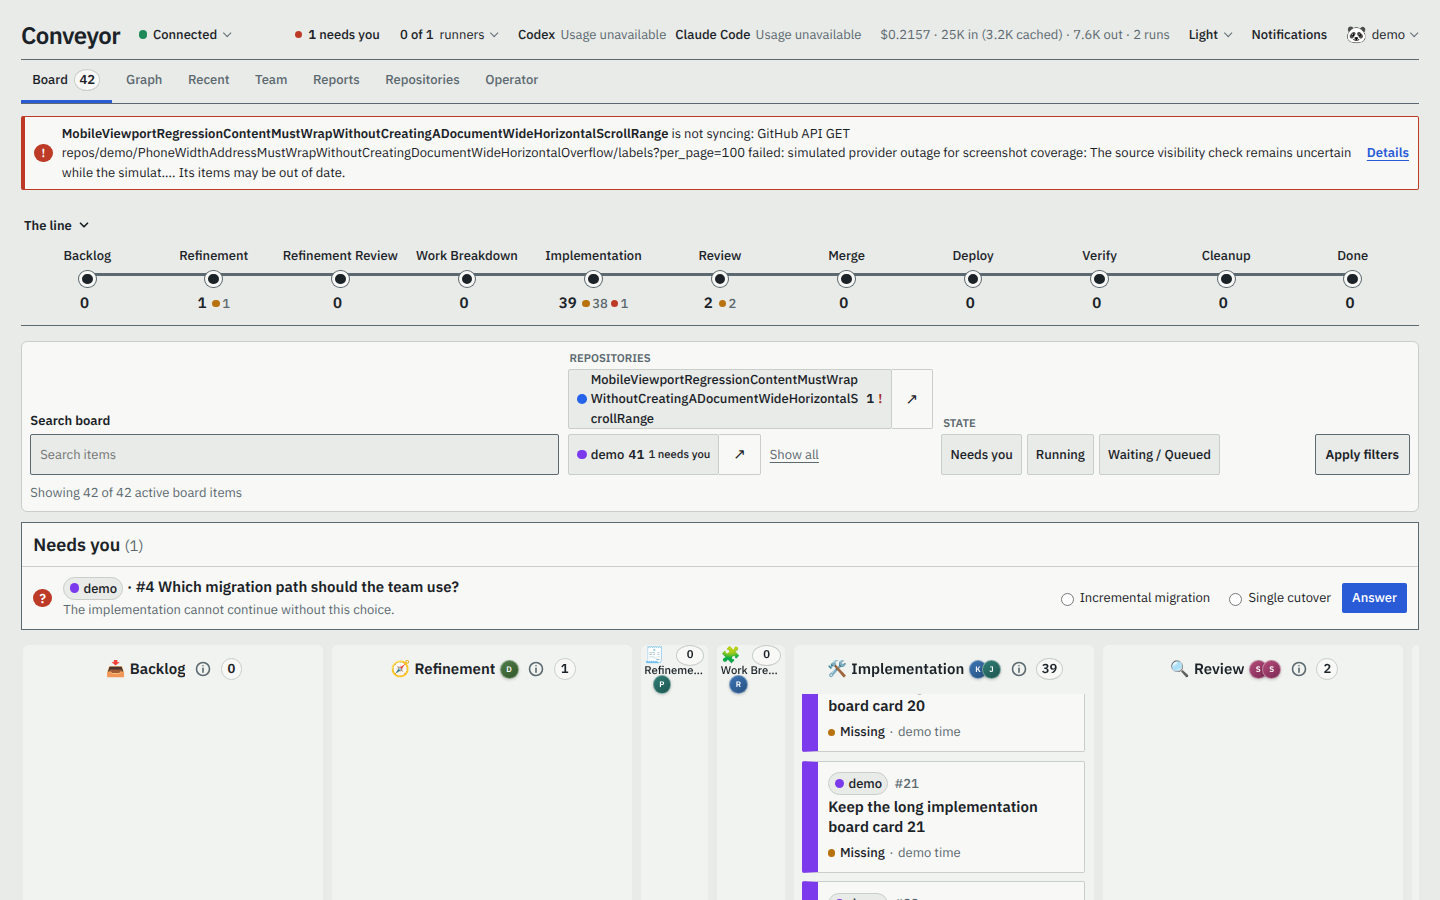
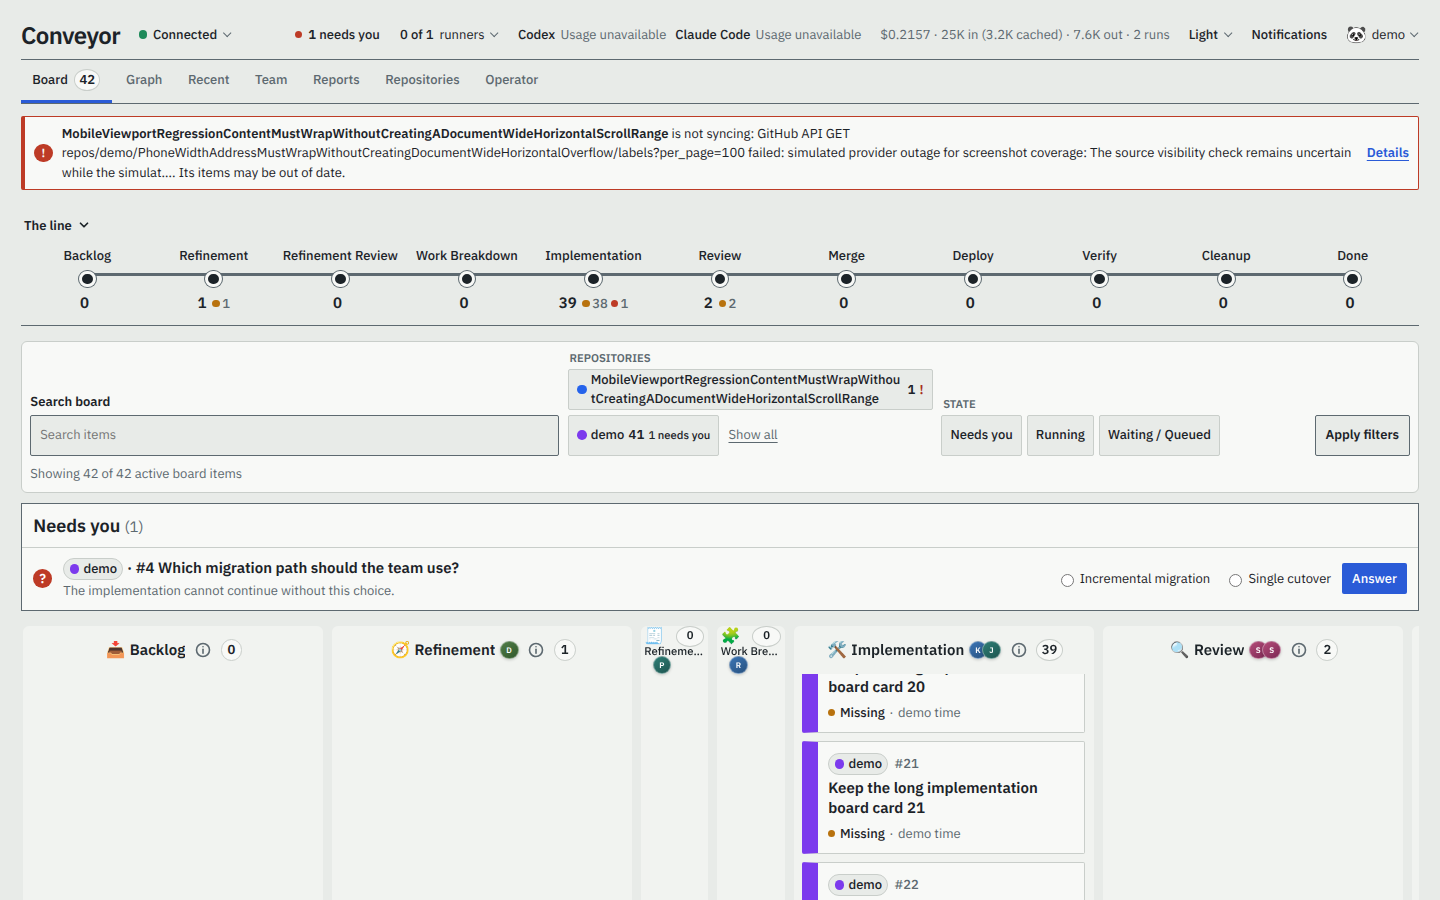
fix: remove repository links from board filters (#341)

diff --git a/src/web/styles.ts b/src/web/styles.ts
@@ -71,10 +71,10 @@ html{scrollbar-color:var(--steel) var(--concrete)}::selection{background:var(--s
 @keyframes popover-in{from{opacity:0;translate:0 -.3rem}}
 @media(prefers-reduced-motion:no-preference){a,button,summary,.issue,.team-card,.repository-card,.report-chip,.tab{transition:background-color .14s ease-out,border-color .14s ease-out,color .14s ease-out}.dashboard-header summary::after{transition:transform .2s cubic-bezier(.16,1,.3,1),margin .2s cubic-bezier(.16,1,.3,1)}.dashboard-header details[open]>.header-popover{animation:popover-in .18s cubic-bezier(.16,1,.3,1)}.issue-details.issue-inspector,.agent-dialog{transition:translate .3s cubic-bezier(.16,1,.3,1),opacity .2s ease-out,overlay .3s allow-discrete,display .3s allow-discrete}.issue-inspector::backdrop,.agent-dialog::backdrop{transition:opacity .3s ease-out,overlay .3s allow-discrete,display .3s allow-discrete}.issue-details.issue-inspector:not([open]){translate:3rem 0;opacity:0}.agent-dialog:not([open]){translate:0 .75rem;opacity:0}.issue-inspector:not([open])::backdrop,.agent-dialog:not([open])::backdrop{opacity:0}@starting-style{.issue-details.issue-inspector[open]{translate:3rem 0;opacity:0}.agent-dialog[open]{translate:0 .75rem;opacity:0}.issue-inspector[open]::backdrop,.agent-dialog[open]::backdrop{opacity:0}}}
 .account-actions{display:grid;gap:.45rem;min-width:20rem}.account-action-form{display:flex;align-items:center;gap:.4rem;flex-wrap:wrap}.account-action-form input{min-width:0;flex:1 1 10rem;border:1px solid var(--steel);padding:.35rem}.account-action-form button,.account-delete summary{border:1px solid var(--steel);border-radius:2px;background:var(--panel);padding:.35rem .55rem;color:var(--ink);font-size:var(--text-sm);font-weight:500}.account-delete{display:grid;gap:.45rem}.account-delete[open]{padding:.45rem;border:1px solid var(--line);background:var(--concrete)}.account-delete label{flex:1 0 100%;font-size:var(--text-sm)}.account-action-buttons{display:flex;gap:.4rem}.account-action-buttons button:first-child{border-color:var(--stop);color:var(--stop-text)}.account-action-form [role=status]{flex:1 0 100%;color:var(--steel);font-size:var(--text-sm)}.account-action-form [role=status][data-error=true]{color:var(--stop-text)}@media(max-width:760px){.account-actions{min-width:15rem}.account-action-form{align-items:stretch}.account-action-form input{flex-basis:100%}}
- .board-filters{margin:.65rem 0;border:1px solid var(--line);border-radius:6px;background:var(--panel)}.board-filters form{display:flex;flex-wrap:wrap;align-items:end;gap:.55rem;padding:.55rem}.board-filter-search{display:grid;flex:1 1 16rem;gap:.2rem;font-size:var(--text-sm);font-weight:600}.board-filter-search input{min-width:0;min-height:2.75rem;box-sizing:border-box;border:1px solid var(--steel);border-radius:2px;background:var(--concrete);color:var(--ink);padding:.45rem .6rem;font:inherit;font-weight:400}.board-filter-choices{display:flex;flex:1 1 30rem;align-items:end;gap:.55rem;min-width:0}.board-filter-choices fieldset{display:flex;flex:1 1 12rem;flex-wrap:wrap;align-items:center;gap:.3rem;margin:0;padding:0;border:0}.board-filter-choices legend{width:100%;margin-bottom:.1rem;color:var(--steel);font-size:.75rem;font-weight:600;text-transform:uppercase}.repository-filter{display:inline-flex;min-width:0;align-items:stretch}.repository-filter label,.board-filter-choices [data-filter-state]{display:inline-flex;min-height:2.75rem;box-sizing:border-box;align-items:center;gap:.28rem;border:1px solid var(--line);border-radius:2px;background:var(--concrete);padding:0 .55rem;color:var(--ink);font-size:var(--text-sm);font-weight:500;cursor:pointer}.repository-filter label:has(input:checked),.board-filter-choices [data-filter-state]:has(input:checked){border-color:var(--signal);background:color-mix(in srgb,var(--signal) 12%,var(--concrete));color:var(--signal)}.repository-filter input,.board-filter-choices [data-filter-state] input{position:absolute;width:1px;height:1px;overflow:hidden;clip-path:inset(50%)}.repository-filter label:focus-within,.board-filter-choices [data-filter-state]:focus-within,.repository-filter-open:focus-visible{outline:3px solid var(--signal);outline-offset:2px}.repository-dot{width:.65rem;height:.65rem;border-radius:50%;background:var(--repo-color,var(--steel))}.repository-filter b{font-variant-numeric:tabular-nums}.repository-filter em{font-style:normal;font-size:.75rem}.repository-filter strong{color:var(--stop-text)}.repository-filter-open{display:inline-flex;min-width:2.75rem;min-height:2.75rem;align-items:center;justify-content:center;border:1px solid var(--line);border-left:0;border-radius:0 2px 2px 0;color:var(--ink);text-decoration:none}.repository-filter-open:hover,.repository-filter-all:hover{color:var(--signal)}.repository-filter-all{display:inline-flex;min-height:2.75rem;align-items:center;padding:0 .3rem;color:var(--steel);font-size:var(--text-sm)}.board-filter-submit,.board-filter-clear,.board-filter-more{min-height:2.75rem;border:1px solid var(--steel);border-radius:2px;background:var(--concrete);color:var(--ink);padding:0 .65rem;font:inherit;font-size:var(--text-sm);font-weight:600;cursor:pointer}.board-filter-clear{margin-left:auto;color:var(--signal)}.board-filter-summary{width:100%;margin:0;color:var(--steel);font-size:var(--text-sm)}.board-filter-more{display:none}.board-filters [hidden]{display:none}
+.board-filters{margin:.65rem 0;border:1px solid var(--line);border-radius:6px;background:var(--panel)}.board-filters form{display:flex;flex-wrap:wrap;align-items:end;gap:.55rem;padding:.55rem}.board-filter-search{display:grid;flex:1 1 16rem;gap:.2rem;font-size:var(--text-sm);font-weight:600}.board-filter-search input{min-width:0;min-height:2.75rem;box-sizing:border-box;border:1px solid var(--steel);border-radius:2px;background:var(--concrete);color:var(--ink);padding:.45rem .6rem;font:inherit;font-weight:400}.board-filter-choices{display:flex;flex:1 1 30rem;align-items:end;gap:.55rem;min-width:0}.board-filter-choices fieldset{display:flex;flex:1 1 12rem;flex-wrap:wrap;align-items:center;gap:.3rem;margin:0;padding:0;border:0}.board-filter-choices legend{width:100%;margin-bottom:.1rem;color:var(--steel);font-size:.75rem;font-weight:600;text-transform:uppercase}.repository-filter{display:inline-flex;min-width:0;align-items:stretch}.repository-filter label,.board-filter-choices [data-filter-state]{display:inline-flex;min-height:2.75rem;box-sizing:border-box;align-items:center;gap:.28rem;border:1px solid var(--line);border-radius:2px;background:var(--concrete);padding:0 .55rem;color:var(--ink);font-size:var(--text-sm);font-weight:500;cursor:pointer}.repository-filter label:has(input:checked),.board-filter-choices [data-filter-state]:has(input:checked){border-color:var(--signal);background:color-mix(in srgb,var(--signal) 12%,var(--concrete));color:var(--signal)}.repository-filter input,.board-filter-choices [data-filter-state] input{position:absolute;width:1px;height:1px;overflow:hidden;clip-path:inset(50%)}.repository-filter label:focus-within,.board-filter-choices [data-filter-state]:focus-within{outline:3px solid var(--signal);outline-offset:2px}.repository-dot{width:.65rem;height:.65rem;border-radius:50%;background:var(--repo-color,var(--steel))}.repository-filter b{font-variant-numeric:tabular-nums}.repository-filter em{font-style:normal;font-size:.75rem}.repository-filter strong{color:var(--stop-text)}.repository-filter-all:hover{color:var(--signal)}.repository-filter-all{display:inline-flex;min-height:2.75rem;align-items:center;padding:0 .3rem;color:var(--steel);font-size:var(--text-sm)}.board-filter-submit,.board-filter-clear,.board-filter-more{min-height:2.75rem;border:1px solid var(--steel);border-radius:2px;background:var(--concrete);color:var(--ink);padding:0 .65rem;font:inherit;font-size:var(--text-sm);font-weight:600;cursor:pointer}.board-filter-clear{margin-left:auto;color:var(--signal)}.board-filter-summary{width:100%;margin:0;color:var(--steel);font-size:var(--text-sm)}.board-filter-more{display:none}.board-filters [hidden]{display:none}
 @media(max-width:760px){.board-filters{margin:.5rem 0}.board-filters form{display:grid;grid-template-columns:minmax(0,1fr) auto;align-items:end}.board-filter-search{grid-column:1}.board-filter-more{display:inline-flex;grid-column:2;align-items:center;justify-content:center}.board-filters[data-enhanced] .board-filter-choices{display:none}.board-filters[data-enhanced][data-filters-open] .board-filter-choices{display:flex;grid-column:1/-1}.board-filter-choices{flex-direction:column;align-items:stretch}.board-filter-choices fieldset{flex-basis:auto}.board-filters[data-enhanced] .board-filter-submit{display:none}.board-filter-clear{grid-column:2;grid-row:2;margin-left:0}.board-filter-summary{grid-column:1;grid-row:2;overflow:hidden;text-overflow:ellipsis;white-space:nowrap}.board-filters:not([data-filters-open]) .board-filter-summary{align-self:center}}
 /* Keep long repository names inside the phone filter drawer. */
-.repository-filter{max-width:100%}.repository-filter label{min-width:0;overflow-wrap:anywhere;white-space:normal}.repository-filter-open{flex:none}.board [data-filter-card][hidden]{display:none!important}@media(max-width:760px){.board-filter-choices .repository-filter{width:100%}.board-filter-choices .repository-filter label{flex:1 1 auto}}
+.repository-filter{max-width:100%}.repository-filter label{min-width:0;overflow-wrap:anywhere;white-space:normal}.board [data-filter-card][hidden]{display:none!important}@media(max-width:760px){.board-filter-choices .repository-filter{width:100%}.board-filter-choices .repository-filter label{flex:1 1 auto}}
 .recent-activity{min-width:0;max-width:76rem}.recent-header{display:flex;align-items:baseline;justify-content:space-between;gap:1rem;margin-bottom:1.25rem}.recent-header h2{margin:0}.recent-header p{margin:0;color:var(--steel)}.recent-filters{display:grid;grid-template-columns:minmax(0,1fr) minmax(0,1fr) auto;gap:1rem;align-items:end;margin-bottom:1.5rem;padding:1rem;border:1px solid var(--line);background:var(--panel)}.recent-filters fieldset{min-width:0;margin:0;padding:0;border:0}.recent-filters legend{margin-bottom:.45rem;font-size:var(--text-sm);font-weight:600}.recent-filter-options{display:flex;flex-wrap:wrap;gap:.4rem}.recent-filter-options label{display:inline-flex;align-items:center;gap:.3rem;min-height:2rem;padding:.2rem .5rem;border:1px solid var(--line);border-radius:999px;font-size:var(--text-sm);overflow-wrap:anywhere}.recent-filter-options input{inline-size:1rem;block-size:1rem;margin:0;accent-color:var(--signal)}.recent-filter-submit,.recent-load-more{min-height:2.25rem;padding:.45rem .8rem;border:1px solid var(--signal);border-radius:2px;background:var(--signal);color:var(--panel);font:inherit;font-weight:600;text-decoration:none}.recent-type{--recent-type:var(--steel);border-color:color-mix(in srgb,var(--recent-type) 55%,var(--line))!important;color:var(--recent-type)}.recent-type--done{--recent-type:var(--run)}.recent-type--stopped{--recent-type:var(--stop)}.recent-type--sent-back{--recent-type:var(--wait)}.recent-type--moved-forward{--recent-type:var(--signal)}.recent-list{display:grid;gap:.65rem;min-width:0;margin:0;padding:0;list-style:none}.recent-event{display:grid;grid-template-columns:7.5rem max-content minmax(13rem,1fr);gap:.45rem .8rem;align-items:center;min-width:0;padding:1rem;border:1px solid var(--line);background:var(--panel)}.recent-event time{color:var(--steel);font-size:var(--text-sm)}.recent-event>.recent-type{width:max-content;max-width:100%;padding:.18rem .45rem;border:1px solid;border-radius:999px;font-size:var(--text-sm);font-weight:600}.recent-item{display:flex;align-items:center;gap:.5rem;min-width:0}.recent-item>a{min-width:0;color:var(--ink);font-weight:600;overflow-wrap:anywhere}.recent-move,.recent-no-reason{grid-column:2/-1;margin:0;color:var(--steel);font-size:var(--text-sm)}.recent-move{display:flex;flex-wrap:wrap;gap:.35rem;align-items:center}.recent-reason{display:block;grid-column:2/-1;min-width:0;color:var(--steel);font-size:var(--text-sm)}.recent-reason summary{display:grid;grid-template-columns:auto minmax(0,1fr);gap:.5rem;cursor:pointer}.recent-reason summary span:last-child{overflow:hidden;text-overflow:ellipsis;white-space:nowrap}.recent-reason[open] summary span:last-child{display:none}.recent-reason p{margin:.45rem 0 0;overflow-wrap:anywhere}.recent-empty{margin:0;padding:1rem;border:1px dashed var(--line);color:var(--steel)}.recent-load-more{display:inline-flex;align-items:center;justify-content:center;margin-top:1rem}@media(max-width:760px){.recent-header{display:block}.recent-header p{margin-top:.35rem}.recent-filters{grid-template-columns:1fr;padding:.8rem}.recent-filter-options label,.recent-filter-submit,.recent-load-more{min-height:2.75rem}.recent-event{grid-template-columns:minmax(0,1fr);gap:.55rem;padding:.8rem}.recent-event>.recent-type{grid-row:1;justify-self:start}.recent-event time{grid-row:1;justify-self:end}.recent-item,.recent-move,.recent-no-reason,.recent-reason{grid-column:1}.recent-item{align-items:flex-start}.recent-item .repository-badge{flex:none}.recent-reason summary{min-height:2.75rem;align-items:center}}
 .criterion-list{gap:.45rem}.criterion-evidence{min-width:0;border:1px solid var(--line);border-radius:2px;background:var(--panel)}.criterion-summary{display:grid;grid-template-columns:auto minmax(0,1fr) auto;gap:.35rem .6rem;align-items:start;padding:.55rem .65rem;cursor:pointer}.criterion-summary::marker{color:var(--steel)}.criterion-state{font-size:var(--text-sm);font-weight:600;white-space:nowrap}.criterion-text{min-width:0;overflow-wrap:anywhere}.criterion-test-count{color:var(--steel);font-size:var(--text-sm);white-space:nowrap}.criterion-empty{margin:.1rem .65rem .65rem;color:var(--steel);font-size:var(--text-sm)}.criterion-tests{display:grid;gap:.45rem;margin:.1rem .65rem .65rem;padding:0;list-style:none}.criterion-test{display:grid;grid-template-columns:minmax(0,1fr);gap:.15rem;min-width:0;padding-top:.45rem;border-top:1px solid var(--line);font-size:var(--text-sm)}.criterion-test strong,.criterion-test-location,.criterion-test-description{min-width:0;overflow-wrap:anywhere}.criterion-test-location{color:var(--signal)}.criterion-test-description{color:var(--steel)}@media(max-width:760px){.criterion-summary{grid-template-columns:auto minmax(0,1fr);padding:.65rem}.criterion-test-count{grid-column:2;font-size:.8rem}.criterion-tests{margin-right:.65rem;margin-left:.65rem}.criterion-empty{margin-right:.65rem;margin-left:.65rem}}
 `;

diff --git a/tests/web/render.test.ts b/tests/web/render.test.ts
@@ -695,11 +695,13 @@ describe("renderDashboard", () => {
       summary("space/name", "healthy", []),
     ];
     const board = renderDashboard({ ...dashboard, repositories, backlog: [{ ...backlogIssue, repository: "active" }] });
+    const filters = board.slice(board.indexOf('<section class="board-filters"'), board.indexOf("</section>", board.indexOf('<section class="board-filters"')));
 
     expect(board).not.toContain('<h2 id="repositories-heading"><a href="/repositories">Repositories</a></h2>');
     expect(board).toContain('data-board-filters');
     expect(board).toContain('name="repo" value="active"');
-    expect(board).toContain('aria-label="Open active"');
+    expect(filters).not.toContain('href="/repositories/');
+    expect(filters).not.toContain("repository-filter-open");
     expect(board).toContain('name="q"');
     expect(board).toContain('data-filter-state="needs-you"');
     expect(board).toContain('href="/repositories" class="repository-filter-all">Show all</a>');
@@ -716,8 +718,12 @@ describe("renderDashboard", () => {
     expect(list.indexOf('href="/repositories/broken"')).toBeLessThan(list.indexOf('href="/repositories/owner"'));
     expect(list.indexOf('href="/repositories/owner"')).toBeLessThan(list.indexOf('href="/repositories/active"'));
     expect(dashboardCss).toContain('.repository-grid{grid-template-columns:minmax(0,1fr)}');
+    expect(dashboardCss).not.toContain("repository-filter-open");
     expect(list).not.toContain('Show all 7');
     expect(renderDashboard({ ...dashboard, view: "repositories", repositories: [] })).toContain("No repositories are configured.");
+
+    const boardWithEncodedRepository = renderDashboard({ ...dashboard, backlog: [{ ...backlogIssue, repository: "space/name" }] });
+    expect(boardWithEncodedRepository).toContain('class="repository-badge" href="/repositories/space%2Fname" title="space/name"');
   });
 
   test("uses each card's pipeline actors in board search data", () => {

diff --git a/tests/web/refresh-position.test.ts b/tests/web/refresh-position.test.ts
@@ -887,7 +887,7 @@ describe("dashboard live refresh position", () => {
       await page.waitForFunction(() => location.search === "?repo=alpha");
       expect(await page.locator('article.issue[data-issue-id="alpha-card"]').isVisible()).toBe(true);
       expect(await page.locator('article.issue[data-issue-id="beta-card"]').isHidden()).toBe(true);
-      expect(await page.locator('a[aria-label="Open alpha"]').getAttribute("href")).toBe("/repositories/alpha");
+      expect(await page.locator('[data-board-filters] a[href^="/repositories/"]').count()).toBe(0);
 
       await page.locator('[data-filter-clear]').click();
       await page.locator('[data-filter-search]').fill("F");
@@ -967,7 +967,7 @@ describe("dashboard live refresh position", () => {
       expect(await page.locator('[data-family-row="family-card"] .family-head').isVisible()).toBe(true);
       expect(await page.locator('[data-family-row="family-card"] .issue--compact').isHidden()).toBe(true);
 
-      const phone = await browser.newPage({ viewport: { width: 390, height: 844 }, isMobile: true, hasTouch: true, reducedMotion: "reduce" });
+      const phone = await browser.newPage({ viewport: { width: 360, height: 800 }, isMobile: true, hasTouch: true, reducedMotion: "reduce" });
       await signIn(phone, server.port);
       const collapsed = await phone.evaluate(() => {
         const form = document.querySelector('[data-filter-form]')!;
@@ -977,6 +977,7 @@ describe("dashboard live refresh position", () => {
       expect(collapsed).toBeLessThanOrEqual(2);
       await phone.getByRole("button", { name: "Filters (0)" }).click();
       expect(await phone.locator('.repository-filter label').filter({ hasText: "alpha" }).isVisible()).toBe(true);
+      expect(await phone.evaluate(() => document.documentElement.scrollWidth <= window.innerWidth)).toBe(true);
 
       const noScript = await browser.newPage({ javaScriptEnabled: false });
       await signIn(noScript, server.port);

diff --git a/src/web/render.tsx b/src/web/render.tsx
@@ -770,7 +770,6 @@ function BoardFilters({ model }: { model: DashboardViewModel }) {
                   <input type="checkbox" name="repo" value={repository.id} data-filter-repository={repository.id} checked={pressed} />
                   <i class={`repository-dot repo-color-${repository.color}`} aria-hidden="true" />{repository.id} {repository.pause && <span class="repository-pause-badge">Paused</span>}<b>{counts.count}</b>{counts.needsYou > 0 && <em>{counts.needsYou} needs you</em>}{repository.health === "degraded" && <strong aria-label="Degraded">!</strong>}
                 </label>
-                <a href={`/repositories/${encodeURIComponent(repository.id)}`} class="repository-filter-open" aria-label={`Open ${repository.id}`}>↗</a>
               </span>;
             })}
             <a href="/repositories" class="repository-filter-all">Show all</a>

diff --git a/docs/dashboard.md b/docs/dashboard.md
@@ -29,7 +29,7 @@ The implementer keeps a working todo list (`todo.set`, `todo.update`). When the 
 
 ![The Board after a long stage scroll, retaining its navigation and stage headings](screenshots/board-scrolled.png)
 
-The compact filter bar narrows the cards already on the board by repository, text, and state without hiding the separate **Needs you** panel. Repository choices open their own detail pages as well as filtering, and active choices stay in the URL for a reload or shared link. On a phone, search and the Filters control occupy the collapsed bar; selected choices and Clear filters remain directly below it.
+The compact filter bar narrows the cards already on the board by repository, text, and state without hiding the separate **Needs you** panel. Repository choices are filters only, and active choices stay in the URL for a reload or shared link. Use **Show all**, repository cards in the Repositories view, or repository badges on Board cards to open a repository detail page. On a phone, search and the Filters control occupy the collapsed bar; selected choices and Clear filters remain directly below it.
 
 ![The Board filtered to a repository and text search](screenshots/board-filtered.png)
 
@@ -71,7 +71,7 @@ A live update does not reload the page. The event stream (`/events/dashboard`) s
 
 ## Repositories
 
-The Board's compact repository filters show repositories with active board work, plus any degraded repository, while **Show all** opens the dedicated repository view. The dedicated pages retain the full cards with each repository's id and address, current health, and active work.
+The Board's compact repository filters show repositories with active board work, plus any degraded repository, while **Show all** opens the dedicated repository view. Individual filter choices do not navigate away from the Board. The dedicated pages retain the full cards with each repository's id and address, current health, and active work.
 
 **Repositories** (`/repositories`) lists every configured repository with its id, address, health, and current work. A degraded repository is also called out above the Board's line with its error and page link, since its items may be out of date. Select one to open `/repositories/<id>`, which provides its current delivery status, recent work, and **Setup**. Setup shows the provider configuration to every signed-in user, but only superusers see the local folder and agent egress hosts.
 

diff --git a/changes/333-remove-filter-repository-link.md b/changes/333-remove-filter-repository-link.md
@@ -1,0 +1,5 @@
+---
+section: Changed
+---
+
+Board repository filters now only filter the Board. Open repository details from **Show all**, the Repositories view, or a repository badge on a Board card.
